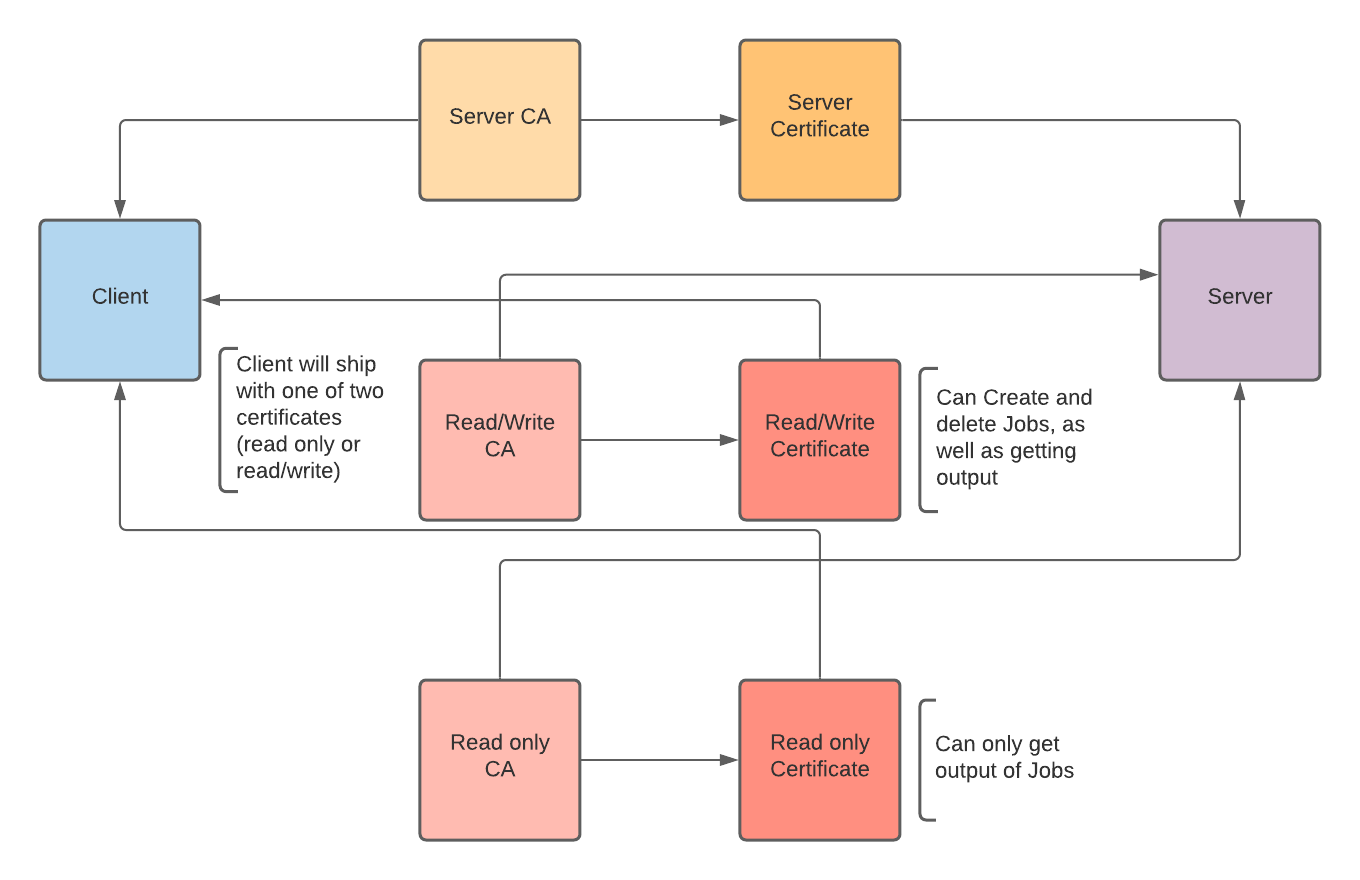
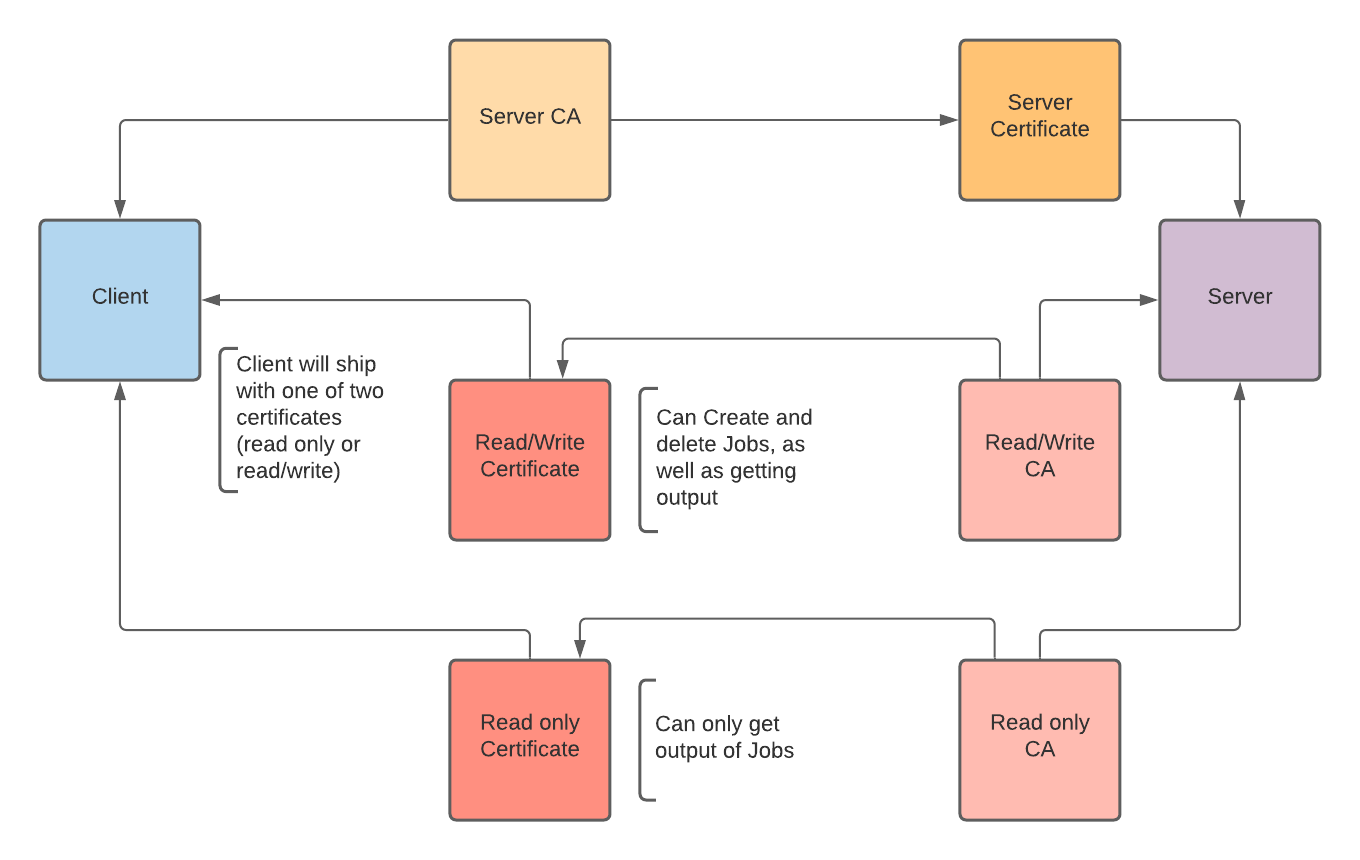
create design document

diff --git a/DESIGN.md b/DESIGN.md
@@ -1,0 +1,79 @@
+# RPC
+This project implements an RPC server in Go using gRPC as a transport.
+
+# Design
+What follows is a design document outlining the technology choices, architecture, and implementation of the RPC client and server. 
+
+## Authentication and Authorization
+The RPC service includes mutual TLS authentication. The client and server will both have their own private keys as well as certificates signed by the same CA. The minimum TLS version will be set to TLS1.2. In order to protect against downgrade attacks in TLS1.2, an allowlist will be used for ciphers. Conveniently, the Go TLS package will return a list of all cipher suites it implements excluding suites with known security issues (tls.CipherSuites()). In order to restrict the client to using these only, PreferServerCipherSuites will be set to true in the server TLS configuration. If this were a production application, an endpoint would be included in the API to accept a certificate revocation list, allowing the administrator to 'ban' certain clients. 
+
+For Authorization, a simple form of role based access control will be implemented: Each role will have its own CA. All CAs will be trusted by the server. Upon handling a remote procedure call, the server will first check the client certificate's certificate authority and compare it to its internal mapping of certificate authority to privilege level. The following roles will be implemented:
+- **Read only:** this role can get job output, but not create or delete jobs. This is useful for automated tooling such as status indicators and job notifiers.
+- **Read/Write access:** this role can get job output as well as create and delete jobs. This role is useful for administrators and any kind of deployment automation that would leverage this service.
+
+![visual representation of the multiple client CA model](doc/client_cas.png)
+
+## API
+### Endpoints
+The API exposed by the RPC service will contain the following endpoints
+- **CreateJob**: receives a Job and returns a CreateJobOutput
+- **DeleteJob**: receives a PID and returns a DeleteJobOutput
+- **ListJobs**: returns a JobList
+- **GetOutput**: receives a PID and returns a JobOutput
+
+### Datatypes
+- **Job**
+    - Command (string):
+    Command holds a valid shell command that is run on the underlying server shell.
+    - PID (integer):
+    PID holds an integer representing job ID. In this project it will correlate directly to the pid of the process running on the RPC server for a given job. In a production RPC system it is advisable to use a randomized PID.
+    - CreatedTime (string):
+    Timestamp that represents when the process was launched on the server
+- **JobList**
+    - Jobs ([]Job):
+    A list of Job obejcts as defined above in this list
+- **JobOutput**
+    - Command (string):
+    Holds the shell command as originally defined in the corresponding call to CreateJob
+    - CurrentOutput (string):
+    Current cummulative contents of stdout from Job
+    - Complete (boolean):
+    Boolean that represents whether the job is still running or if it has finished
+- **DeleteJobOutput**
+    - Job (Job):
+    Job object as defined above in this list
+    - Exit (integer):
+    Exit code as returned from the underlying process
+    - Interrupted (boolean):
+    Boolean is set to true if underlying process was still running when DeleteJob was called
+- **CreateJobOutput**
+    - Job (Job):
+    Created Job object as defined above in this list
+    - Success (boolean):
+    Boolean set to true if the job was launched successfully
+    - Error (string):
+    If success is set to False, an error can be found in Error
+- **PID**
+    Single integer representing the PID of the underlying process
+
+### Data flow
+Each handler will receive the endpoint input as well as a context object from which the client certificate and trust chain can be extracted. After the Authorization routine is applied to the CA certificate found in the client certificate trust chain, the handler will process the input and return the output.
+
+![flowchart for CreateJob API call](doc/data_flow.png)
+
+## Controller
+The backend will leverage the CommandContext type from the os/exec package. This will provide convenient facilities for cancelling running jobs and garnering job output. Additionally, it will handle passing through environment variables for us.
+
+A single datatype, JobCtl, will be defined to contain the following peices of data:
+- The os/exec CommandContext instance
+- The cancel function derived from teh context passed into the CommandContext instance
+- The "Job" instance as defined in the API datatypes.
+    
+A sync.Map will be used to cache JobCtl objects. The JobCtl objects will be mapped to their PID. The sync.Map will take care of synchronization, reducing the likelihood of concerrency errors like race conditions. Methods will be defined to retrieve API Job objects, create new JobCtls, delete existing JobCtls, and fetch output from a JobCtl.
+
+## Client
+A command line client will be created from the compiled client library stub code.
+A client docker image will be created which will contain the command line client as well as a specific client certificate and private key. The client docker image will also contain the server certificate. A unique docker image will be built for each client role (read only and read/write). All client image will use the same command line client application binary.
+
+## Build environment
+This project will be built and tested on a standard debian installation. A Makefile will be leveraged to automate building, testing, and deployment. The Makefile will create docker images to run the client and server code in. The docker images created by the Makefile will be based on Alpine linux. Alpine linux was chosen because it is a small, lightweight, and convenient solution. The Makefile will also provide a target that will run unit tests. 
